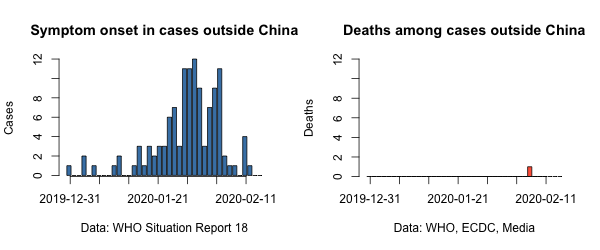
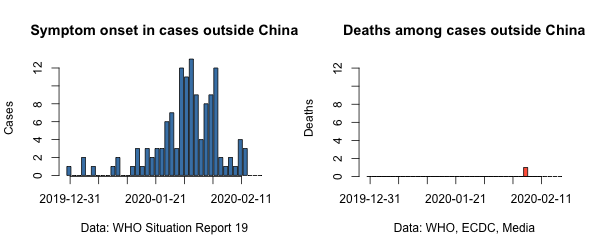
Update with WHO Situation Report 19

diff --git a/README.md b/README.md
@@ -4,7 +4,7 @@
 
 Christian L. Althaus (christian.althaus@ispm.unibe.ch), Institute of Social and Preventive Medicine, University of Bern, Bern, Switzerland
 
-**Summary: We provide a preliminary estimate of the case fatality ratio (CFR) of 2019-nCoV at 1.7% (95% confidence interval: 0.1%-7.5%). While there remains considerable uncertainty around this estimate (n = 1!), CFR is arguably higher than what is typically observed for seasonal influenza, but lower than what was observed for SARS-CoV or MERS-CoV.**
+**Summary: We provide a preliminary estimate of the case fatality ratio (CFR) of 2019-nCoV at 1.5% (95% confidence interval: 0.1%-6.6%). While there remains considerable uncertainty around this estimate (n = 1!), CFR is arguably higher than what is typically observed for seasonal influenza, but lower than what was observed for SARS-CoV or MERS-CoV.**
 
 While the basic reproduction number of the 2019-nCoV epidemic in China [has been estimated](https://github.com/jriou/wcov) at 2.2 (90% high density interval: 1.4-3.8) (1,2), there remains considerable uncertainty regarding the case fatality ratio (CFR). To date, naive estimates of CFR from the reported numbers of confirmed cases and deaths are difficult to interpret due to possible biases in observed cases and the right-censoring of cases with respect to the time delay from illness onset to death (3).
 
@@ -12,7 +12,7 @@ We argue that reported 2019-nCoV cases and deaths outside China are less prone t
 
 ![](figures/ncov_cases.png)
 
-**Figure 1. Reported 2019-nCoV cases outside China by onset of symptoms and time of death.** The WHO [Novel Coronavirus(2019-nCoV) Situation Report - 18](https://www.who.int/emergencies/diseases/novel-coronavirus-2019/situation-reports) reports onset of symptoms for 121 cases (out of a total of 216 cases). The first death outside China has been reported by WHO, [ECDC](https://www.ecdc.europa.eu/en/novel-coronavirus-china) and [international media](https://www.theguardian.com/global-development/2020/feb/02/coronavirus-deaths-hong-kong-health-workers-to-strike-china-border-).
+**Figure 1. Reported 2019-nCoV cases outside China by onset of symptoms and time of death.** The WHO [Novel Coronavirus(2019-nCoV) Situation Report - 19](https://www.who.int/emergencies/diseases/novel-coronavirus-2019/situation-reports) reports onset of symptoms for 130 cases (out of a total of 288 cases). The first death outside China has been reported by WHO, [ECDC](https://www.ecdc.europa.eu/en/novel-coronavirus-china) and [international media](https://www.theguardian.com/global-development/2020/feb/02/coronavirus-deaths-hong-kong-health-workers-to-strike-china-border-).
 
 First, we collect 2019-nCoV cases and deaths outside China from [WHO](https://www.who.int/emergencies/diseases/novel-coronavirus-2019/situation-reports/), [ECDC](https://www.ecdc.europa.eu/en/novel-coronavirus-china) and [international media](https://www.theguardian.com/global-development/2020/feb/02/coronavirus-deaths-hong-kong-health-workers-to-strike-china-border-) (Figure 1). We then model the expected incidence of death due 2019-nCoV given the CFR. To this end, we assume that the time from onset to death follows a gamma distribution with a mean of 15.3 days and a shape parameter of 5.05 (Figure 2) (4). Finally, we use a maximum-likelihood framework to estimate CFR by fitting the model to the data assuming the observed numbers of deaths are Poisson distributed (see `R` code file [`ncov_cfr.R`](ncov_cfr.R)).
 
@@ -20,7 +20,7 @@ First, we collect 2019-nCoV cases and deaths outside China from [WHO](https://ww
 
 **Figure 2. Probability distribution of time from onset of 2019-nCoV symptoms to death.** The distribution is based on the estimates by Linton et al. (3).
 
-We estimate the CFR of 2019-nCoV at 1.7% (95% confidence interval: 0.1%-7.5%). Due to the observation of only one death outside China, the uncertainty around this estimate remains wide. We expect future estimates to become more precise with higher numbers of cases and deaths outside China (Figure 3). Furthermore, the estimate could represent an upper bound because information on date of onset is not available for all reported cases and asymptomatic cases are not included. It is also important to note that the fatal case in Manila was [co-infected with *Streptococcus pneumoniae* and *influenza B virus*](https://twitter.com/joel_mossong/status/1223989493176459266?s=20).
+We estimate the CFR of 2019-nCoV at 1.5% (95% confidence interval: 0.1%-6.6%). Due to the observation of only one death outside China, the uncertainty around this estimate remains wide. We expect future estimates to become more precise with higher numbers of cases and deaths outside China (Figure 3). Furthermore, the estimate could represent an upper bound because information on date of onset is not available for all reported cases and asymptomatic cases are not included. It is also important to note that the fatal case in Manila was [co-infected with *Streptococcus pneumoniae* and *influenza B virus*](https://twitter.com/joel_mossong/status/1223989493176459266?s=20).
 
 ![](figures/ncov_cfr.png)
 
